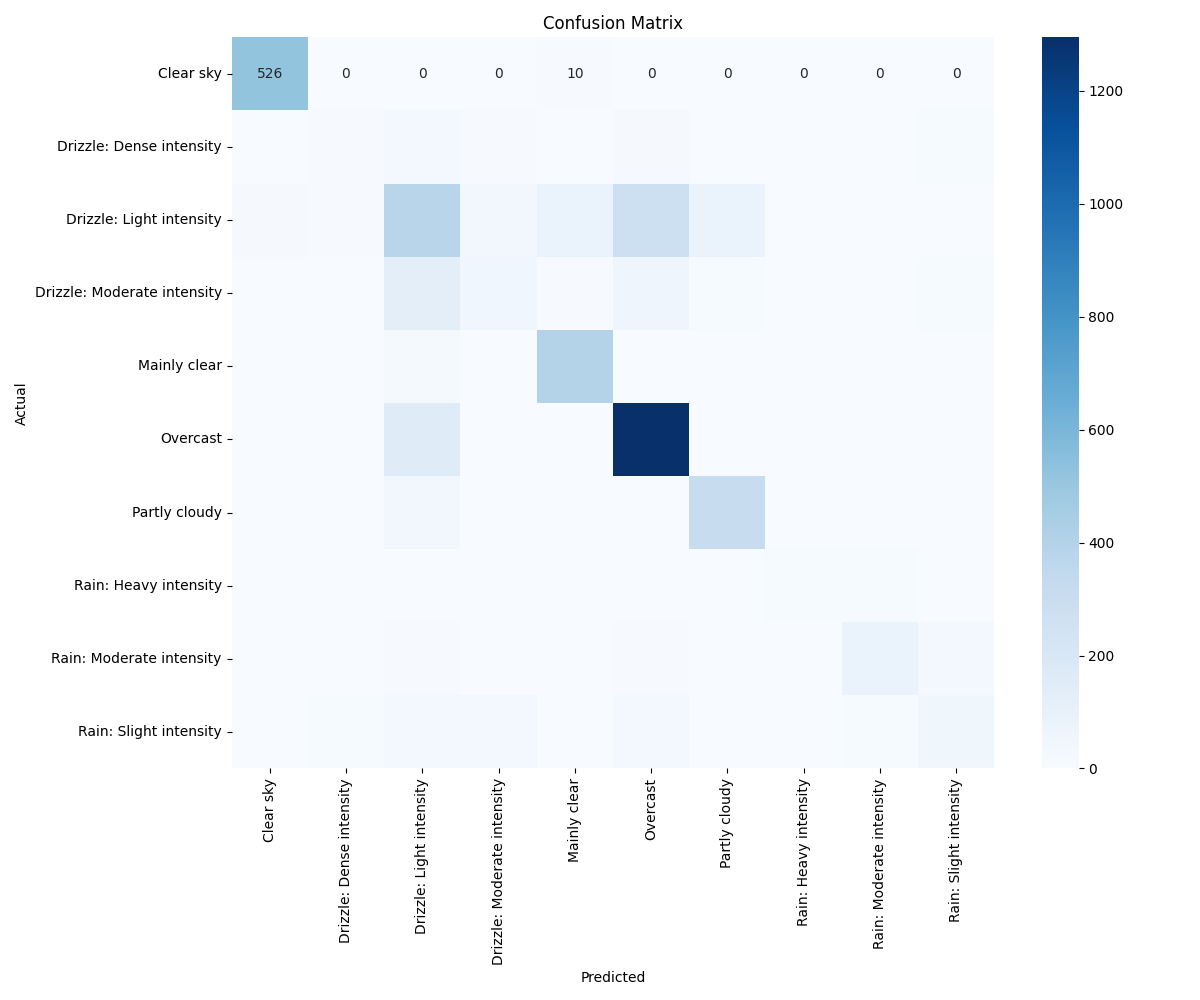
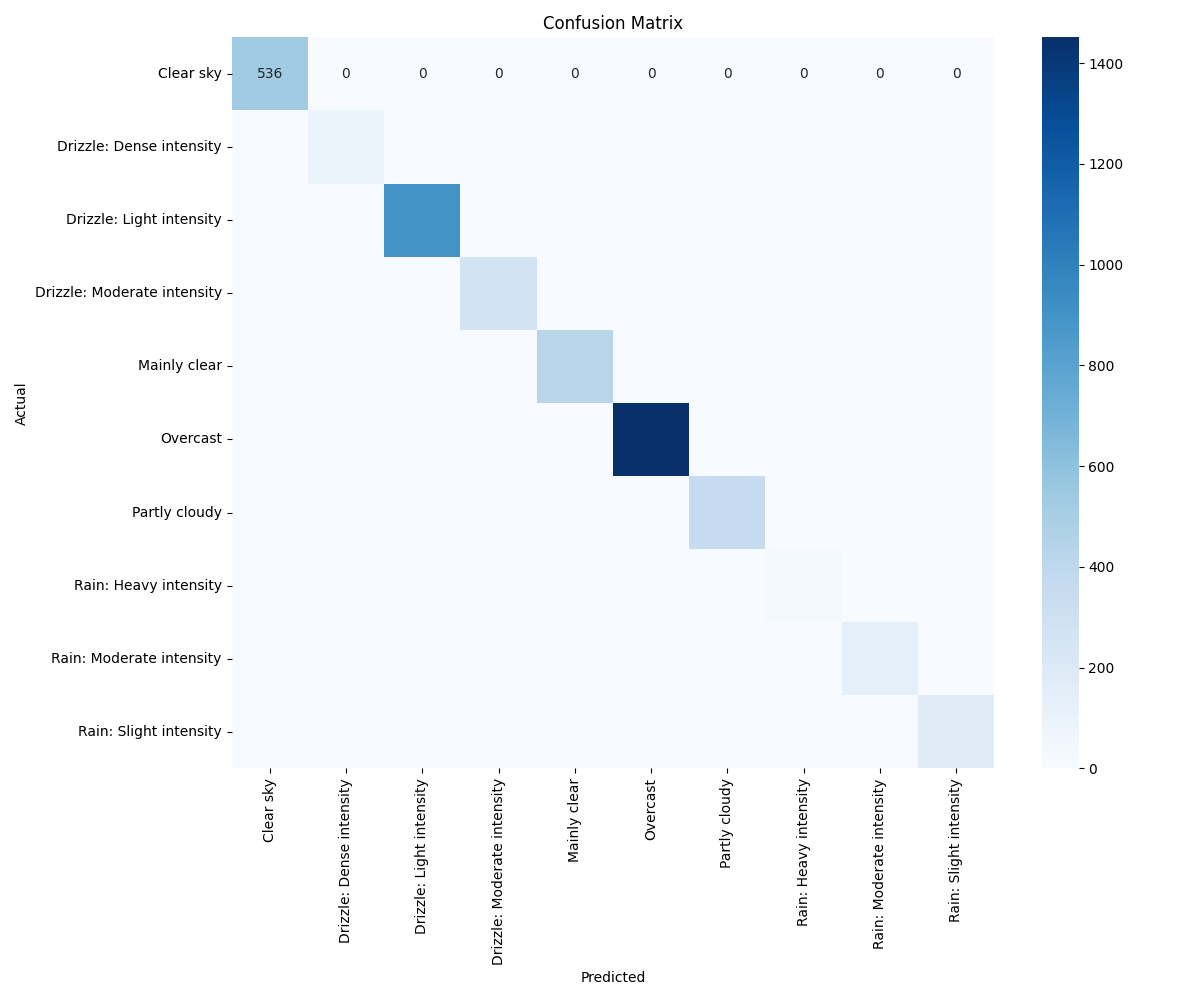
add API

diff --git a/app/routes.py b/app/routes.py
@@ -1,50 +1,54 @@
-# routes.py
+from flask import Blueprint, render_template, request, jsonify
+import joblib
+import pandas as pd
 
-# Import các thư viện cần thiết từ Flask và thư viện ngoài
-from flask import Blueprint, render_template, request  # Để xử lý tuyến đường (routes), render HTML và nhận dữ liệu từ form
-import joblib  # Dùng để load mô hình đã lưu
-import pandas as pd  # Dùng để xử lý dữ liệu đầu vào dưới dạng DataFrame
-
-# Tạo một Blueprint để quản lý nhóm các route liên quan (tách riêng phần giao diện người dùng)
 main = Blueprint('main', __name__)
 
-# Đường dẫn đến mô hình học máy đã được huấn luyện và lưu bằng joblib
 model_path = r"D:\Học Máy\weather-forecast-python_demo_01\models\knn_model_05.pkl"
-
-# Load mô hình từ file
 model = joblib.load(model_path)
 
-# Định nghĩa một route cho trang chủ ('/') xử lý cả phương thức GET và POST
 @main.route('/', methods=['GET', 'POST'])
 def index():
-    prediction = None  # Biến lưu kết quả dự đoán, mặc định là None
-    selected_date = ''  # Biến lưu ngày được chọn từ form, mặc định rỗng
+    prediction = None
+    selected_date = ''
 
-    # Nếu người dùng gửi biểu mẫu (POST)
     if request.method == 'POST':
         try:
-            # Lấy dữ liệu ngày được nhập từ form
             selected_date = request.form['date']
-
-            # Lấy các giá trị đầu vào từ form và chuyển sang kiểu float
             input_data = {
-                'Temp_C': float(request.form['Temp_C']),  # Nhiệt độ (độ C)
-                'Humidity_pct': float(request.form['Humidity_pct']),  # Độ ẩm (%)
-                'Precipitation_mm': float(request.form['Precipitation_mm']),  # Lượng mưa (mm)
-                'WindSpeed_kmh': float(request.form['WindSpeed_kmh']),  # Tốc độ gió (km/h)
-                'CloudCover_pct': float(request.form['CloudCover_pct']),  # Mức độ mây che phủ (%)
-                'AtmosPressure_hPa': float(request.form['AtmosPressure_hPa'])  # Áp suất khí quyển (hPa)
+                'Temp_C': float(request.form['Temp_C']),
+                'Humidity_pct': float(request.form['Humidity_pct']),
+                'Precipitation_mm': float(request.form['Precipitation_mm']),
+                'WindSpeed_kmh': float(request.form['WindSpeed_kmh']),
+                'CloudCover_pct': float(request.form['CloudCover_pct']),
+                'AtmosPressure_hPa': float(request.form['AtmosPressure_hPa'])
             }
-
-            # Tạo một DataFrame từ dữ liệu đầu vào (phải có đúng định dạng mà mô hình yêu cầu)
             df = pd.DataFrame([input_data])
-
-            # Dự đoán kết quả từ mô hình và lấy giá trị đầu tiên (do kết quả là một mảng)
             prediction = model.predict(df)[0]
-
         except Exception as e:
-            # Nếu có lỗi xảy ra, gán thông báo lỗi cho biến prediction để hiển thị
             prediction = f"Lỗi: {e}"
 
-    # Trả về template HTML kèm theo kết quả dự đoán và ngày đã chọn (nếu có)
     return render_template('index.html', prediction=prediction, selected_date=selected_date)
+
+@main.route('/api/predict', methods=['POST'])
+def api_predict():
+    try:
+        data = request.get_json(force=True)  # force=True giúp đọc JSON ngay cả khi header Content-Type sai (cẩn thận dùng)
+
+        if data is None:
+            return jsonify({'error': 'No JSON data received'}), 400
+
+        # Kiểm tra đầy đủ trường
+        required_fields = ['Temp_C', 'Humidity_pct', 'Precipitation_mm', 'WindSpeed_kmh', 'CloudCover_pct', 'AtmosPressure_hPa']
+        missing_fields = [field for field in required_fields if field not in data]
+        if missing_fields:
+            return jsonify({'error': f'Missing fields: {", ".join(missing_fields)}'}), 400
+
+        input_data = {field: float(data[field]) for field in required_fields}
+        df = pd.DataFrame([input_data])
+        prediction = model.predict(df)[0]
+
+        return jsonify({'prediction': prediction})
+
+    except Exception as e:
+        return jsonify({'error': str(e)}), 500

diff --git a/app/model/train_model.py b/app/model/train_model.py
@@ -1,6 +1,6 @@
 import pandas as pd
 from sklearn.model_selection import train_test_split
-from sklearn.ensemble import RandomForestClassifier
+from sklearn.neighbors import KNeighborsClassifier
 import joblib  # để lưu mô hình
 import os
 
@@ -18,23 +18,22 @@ def main():
     data = pd.read_csv(file_path)
     data.columns = data.columns.str.strip()
 
-    # Loại bỏ cột 'CloudCover_pct' cùng với các cột không cần thiết khác
     y = data["WeatherDescription"]
-    X = data.drop(columns=["Date", "Time", "WeatherCondition", "WeatherDescription"])
+    X = data.drop(columns=["Date", "Time", "WeatherCondition", "WeatherDescription",])
 
     X_train, X_test, y_train, y_test = train_test_split(
         X, y, test_size=0.3, random_state=42, stratify=y)
 
-    # Khởi tạo và huấn luyện mô hình Random Forest
-    model = RandomForestClassifier(n_estimators=100, random_state=42)  # n_estimators có thể thay đổi tùy theo bạn
+    # Khởi tạo và huấn luyện mô hình KNN
+    model = KNeighborsClassifier(n_neighbors=11)  # n_neighbors có thể thay đổi tùy theo bạn
     model.fit(X_train, y_train)
 
     # Lưu mô hình và dữ liệu test để evaluate sau
-    joblib.dump(model, os.path.join(model_dir, "random_forest_model_04.pkl"))
+    joblib.dump(model, os.path.join(model_dir, "knn_model_05.pkl"))
     X_test.to_csv(os.path.join(test_data_dir, "X_test.csv"), index=False)
     y_test.to_csv(os.path.join(test_data_dir, "y_test.csv"), index=False)
 
-    print("Training complete. Random Forest model and test data saved.")
+    print("Training complete. KNN model and test data saved.")
 
 if __name__ == "__main__":
     main()

diff --git a/app/model/evaluate_model.py b/app/model/evaluate_model.py
@@ -9,7 +9,7 @@ import matplotlib.pyplot as plt  # Thư viện vẽ biểu đồ cơ bản
 # Định nghĩa hàm chính
 def main():
     # Đường dẫn đến mô hình KNN đã huấn luyện
-    model_path = r"D:\Học Máy\weather-forecast-python_demo_01\models\knn_model_05.pkl"
+    model_path = r"D:\Học Máy\weather-forecast-python_demo_01\models\random_forest_model_02.pkl"
     
     # Đường dẫn chứa tập dữ liệu kiểm tra (test)
     test_data_dir = r"D:\Học Máy\weather-forecast-python_demo_01\data\test_data"
